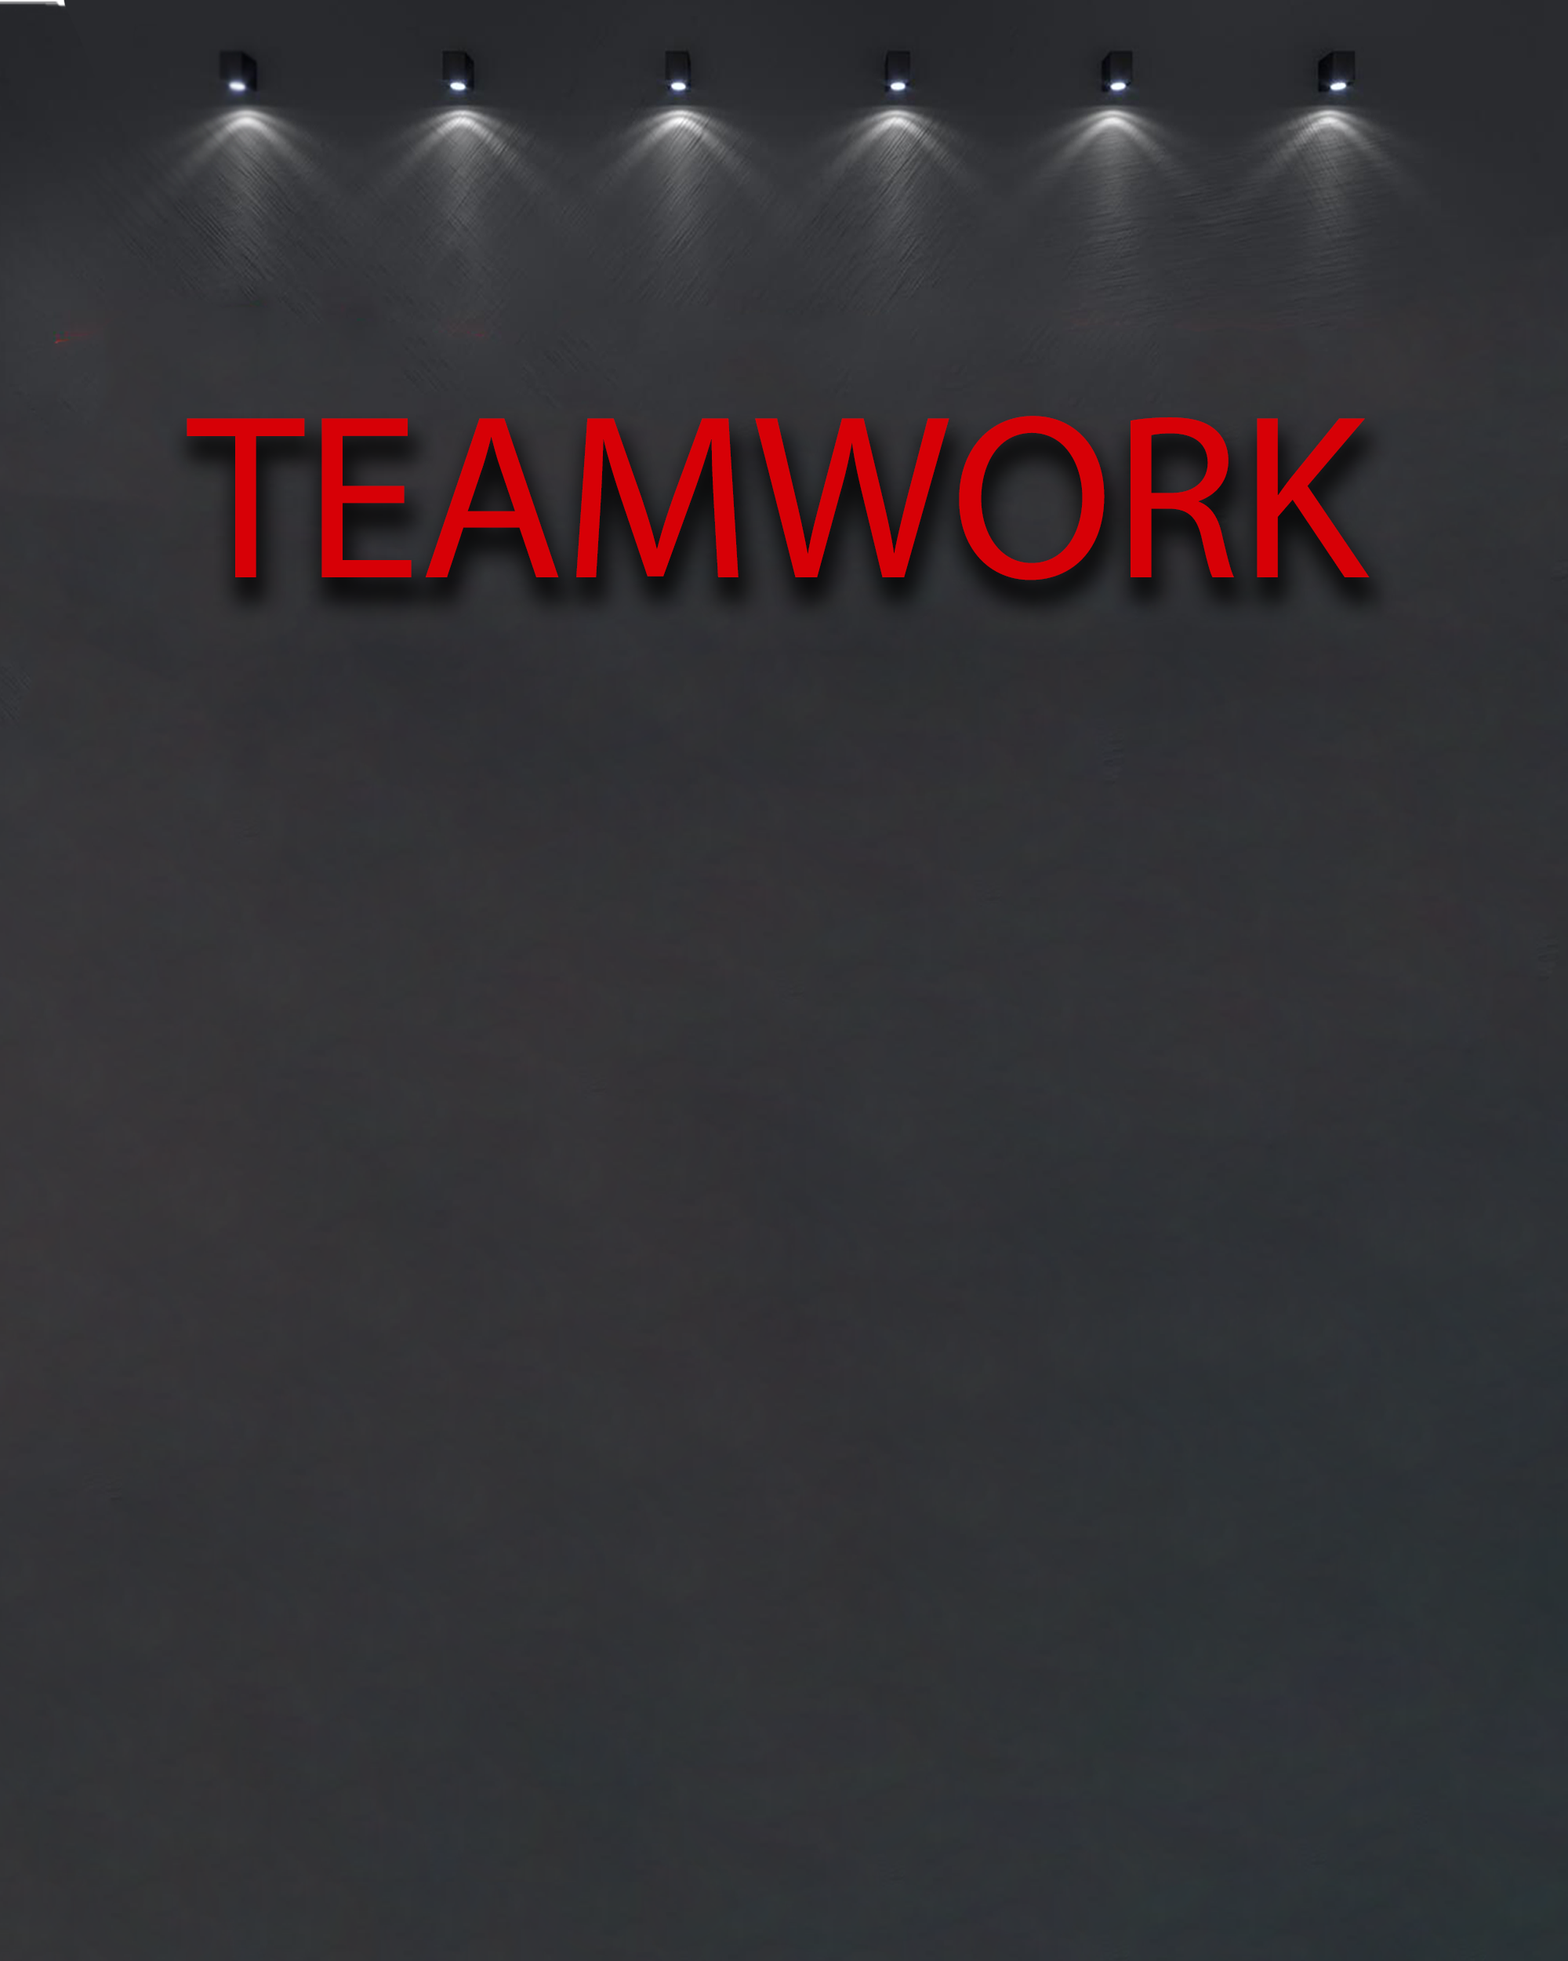
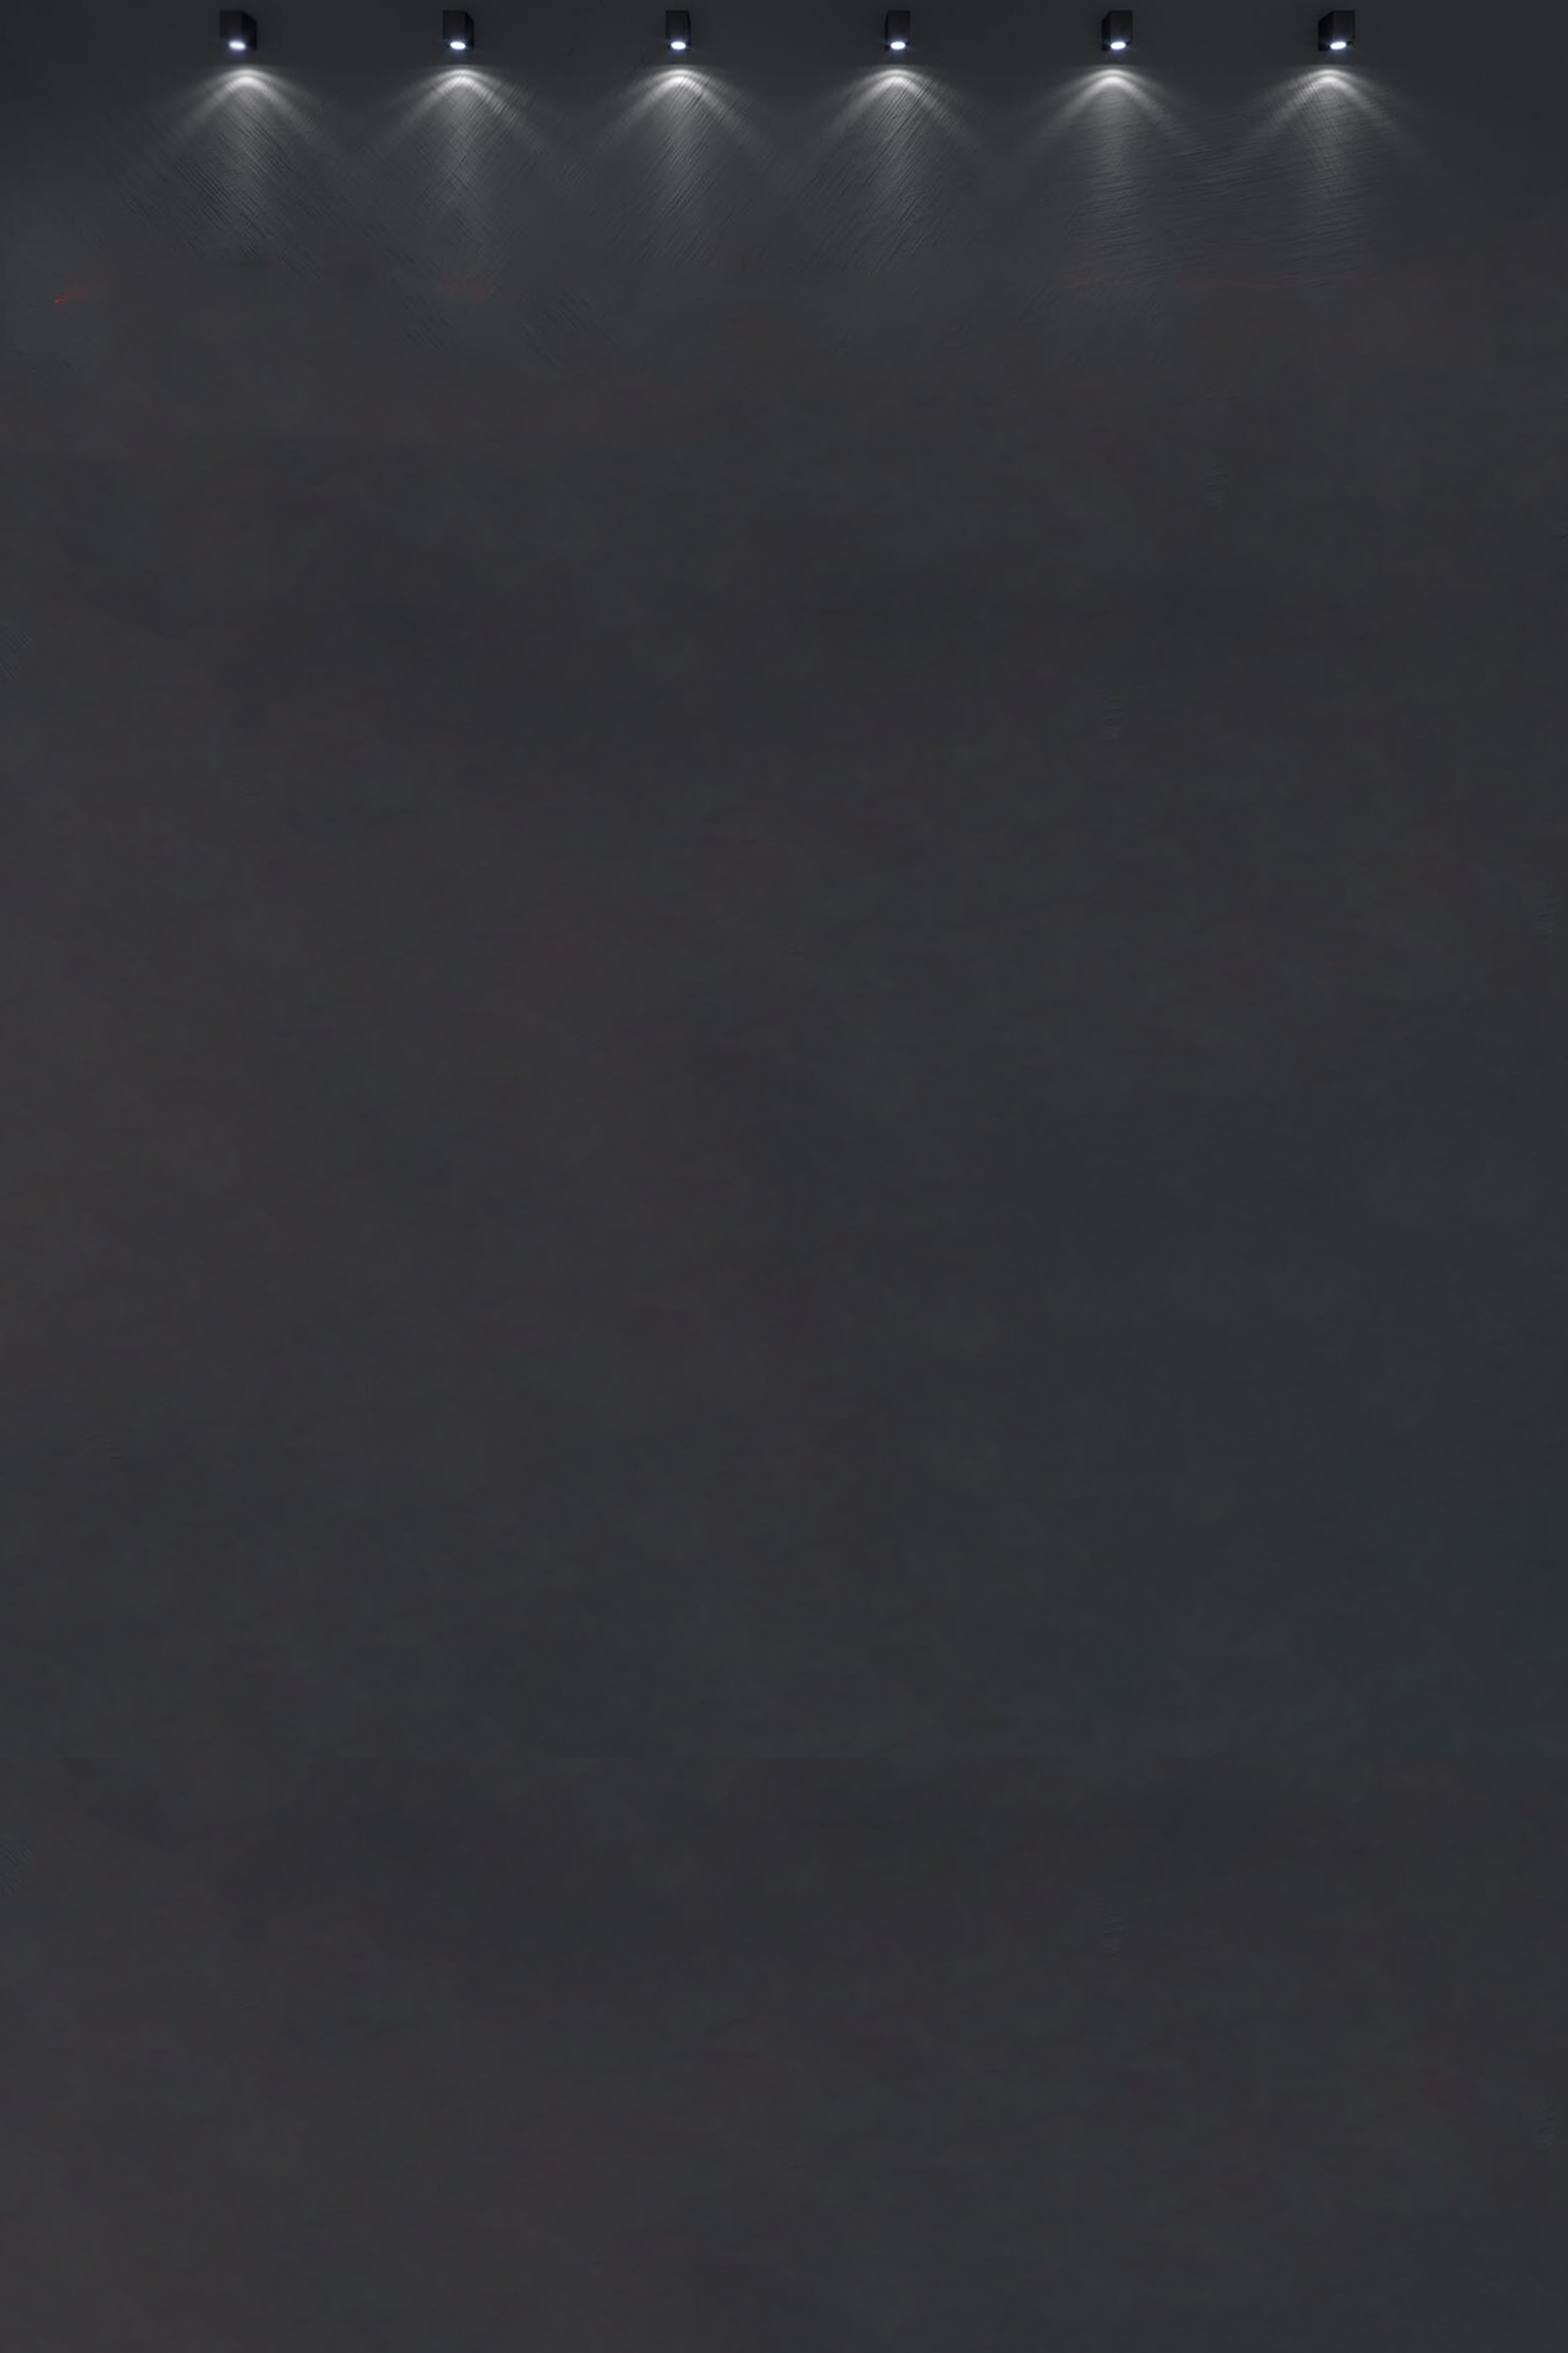
v1.2.5 dg

diff --git a/portfolio_brandon.html b/portfolio_brandon.html
@@ -7,13 +7,9 @@
       background-image: url('images/teamwork.png');
       background-attachment: fixed;
       background-size: cover;
-      
-
     }
-   
-
     </style> 
-    <header class="Teamwork_head">TEAMWORK</header>
+    <title></title>
   </head>
   <body>
   <nav>
@@ -35,18 +31,16 @@
         </div>
       </ul>
   </nav>
-    <div class="about-us-body" >
-      <title></title>
-        <div class="homepage-card">
-          <h2>ABOUT Us</h2>
-          <p>Lorem ipsum dolor sit amet, consectetur adipisicing elit,
+    <div class="portfolio-body" >
+        <div class="portfolio-card-1">
+          <h2>Portfolio</h2>
+          <p> <img class="pf_img" src="images/Brandon.png" style="width: 10%;height: 20%;"> </p><p> ipsum dolor sit amet, consectetur adipisicing elit,
             sed do eiusmod tempor incididunt ut labore et dolore magna aliqua.
             Ut enim ad minim veniam, quis nostrud exercitation ullamco laboris nisi
             ut aliquip ex ea commodo consequat. Duis aute irure dolor in reprehenderit
             in voluptate velit esse cillum dolore eu fugiat nulla pariatur.
             Excepteur sint occaecat cupidatat non proident, sunt in culpa qui
             officia deserunt mollit anim id est laborum.</p>
-            <div class="button1"><a href="portfolio_brandon.html">CLICK ME</a></div>
         </div>
     </div>
   </body>

diff --git a/style.css b/style.css
@@ -3,6 +3,7 @@
   text-decoration:none;
   /* font-style: sans-serif; */
   font-weight: lighter;
+  margin: 0;
 }
 
 nav{
@@ -42,13 +43,15 @@ body{
 
 
 .about-us-body{
+
   width: 100%;
   /* background-image: url('images/key board red_lang.png'); */
 
-  align-items: center;
   display: flex;
   text-align: center;
-  margin: 80px 0px 0 0;
+  margin: 5% 10% 0 0;
+  justify-content: center;
+  align-content: center;
 }
 
 .contact-body{
@@ -163,7 +166,8 @@ body{
   align-items: center;
   /* padding-top: 80px; */
   max-width: 800px;
-  margin: 80px 0 0 100px;
+  margin: 80px 0 0 100px; 
+ 
 }
 
 .homepage-card p{
@@ -250,6 +254,7 @@ button{
   border-radius: 10px;
 }
 
+
 /* @media screen and (max-width: 960px){
   .navigation{
     display: grid;
@@ -322,5 +327,19 @@ button{
   .navigation.active{
     left: 0;
     
+=======
+.Teamwork_head{
+  display: flex;
+  color: #D70006;
+  margin: 10% 50% 0% 25%;
+  font-size: 100%;
+  
+}
+@media screen and (min-width:480px) {
+  .Teamwork_head{
+    font-size: 600%;
   }
+}
+.pf_img{
+  justify-content: center;
 }
